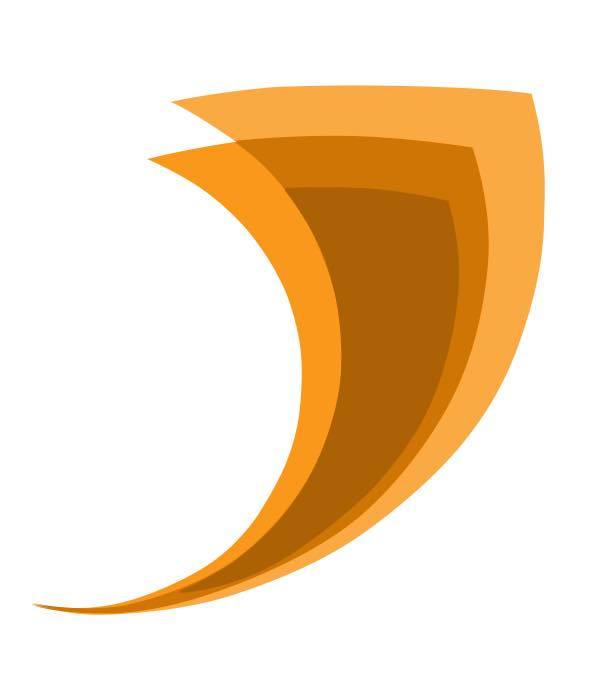
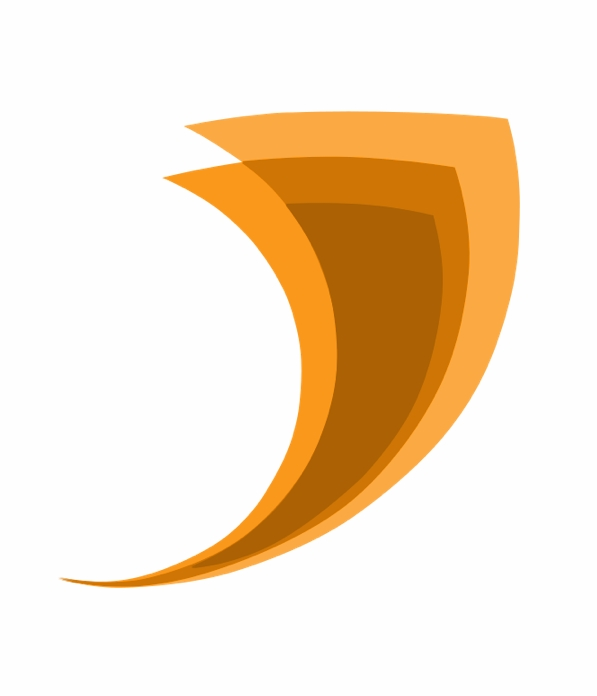
Shrunk team_cevo image size. Darkened <hr> for blog post content.

Changed region(s): [[0.0603, 0.1207, 0.9347, 0.9052], [0.4824, 0.4224, 0.5126, 0.4526]]

diff --git a/static/css/post.css b/static/css/post.css
@@ -8,6 +8,10 @@
 		margin-top: 40px;
 	}
 
+	hr {
+	  border-top: 1px solid #ccc;
+	}
+
 	.draft {
 		background-color: lightblue;
 	}
